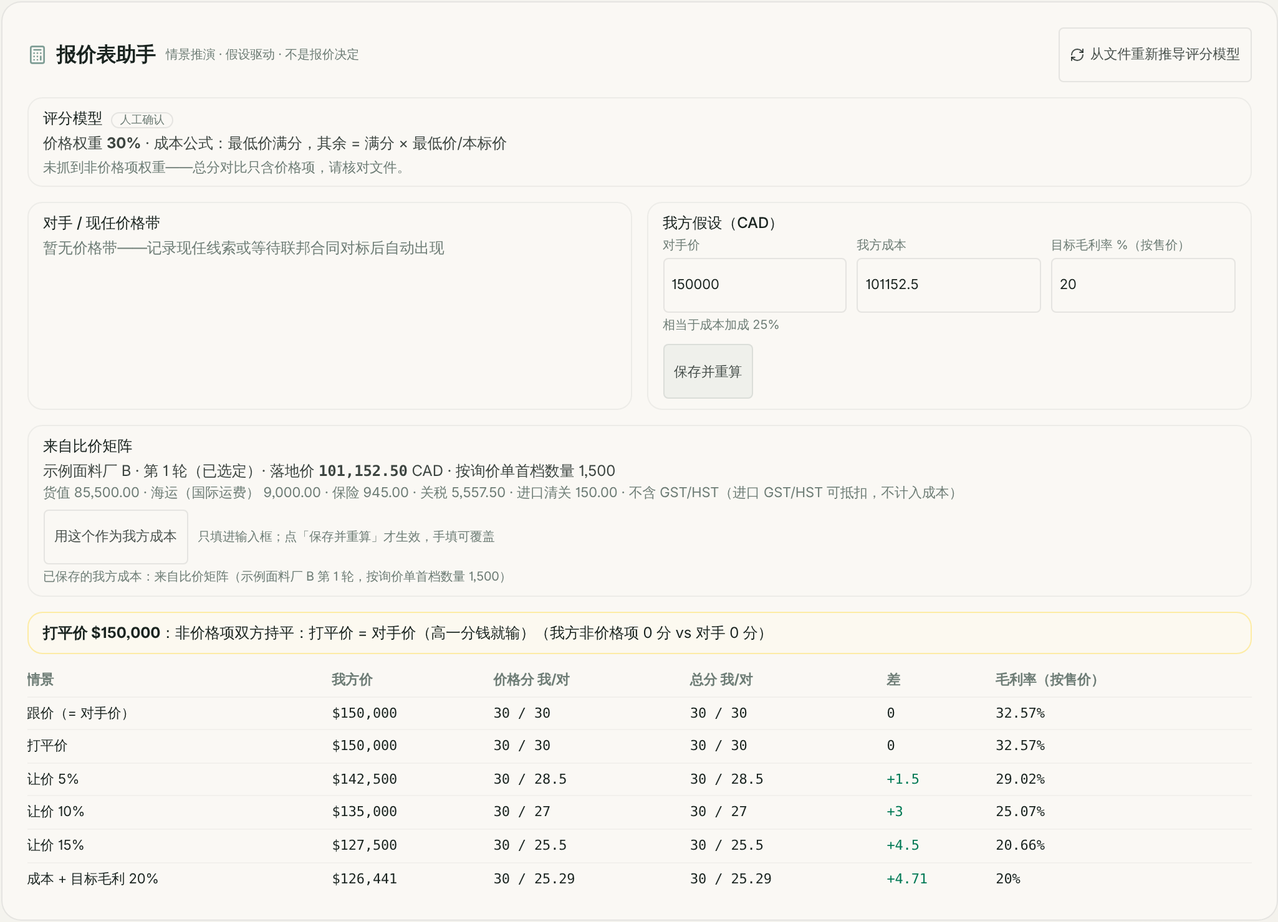
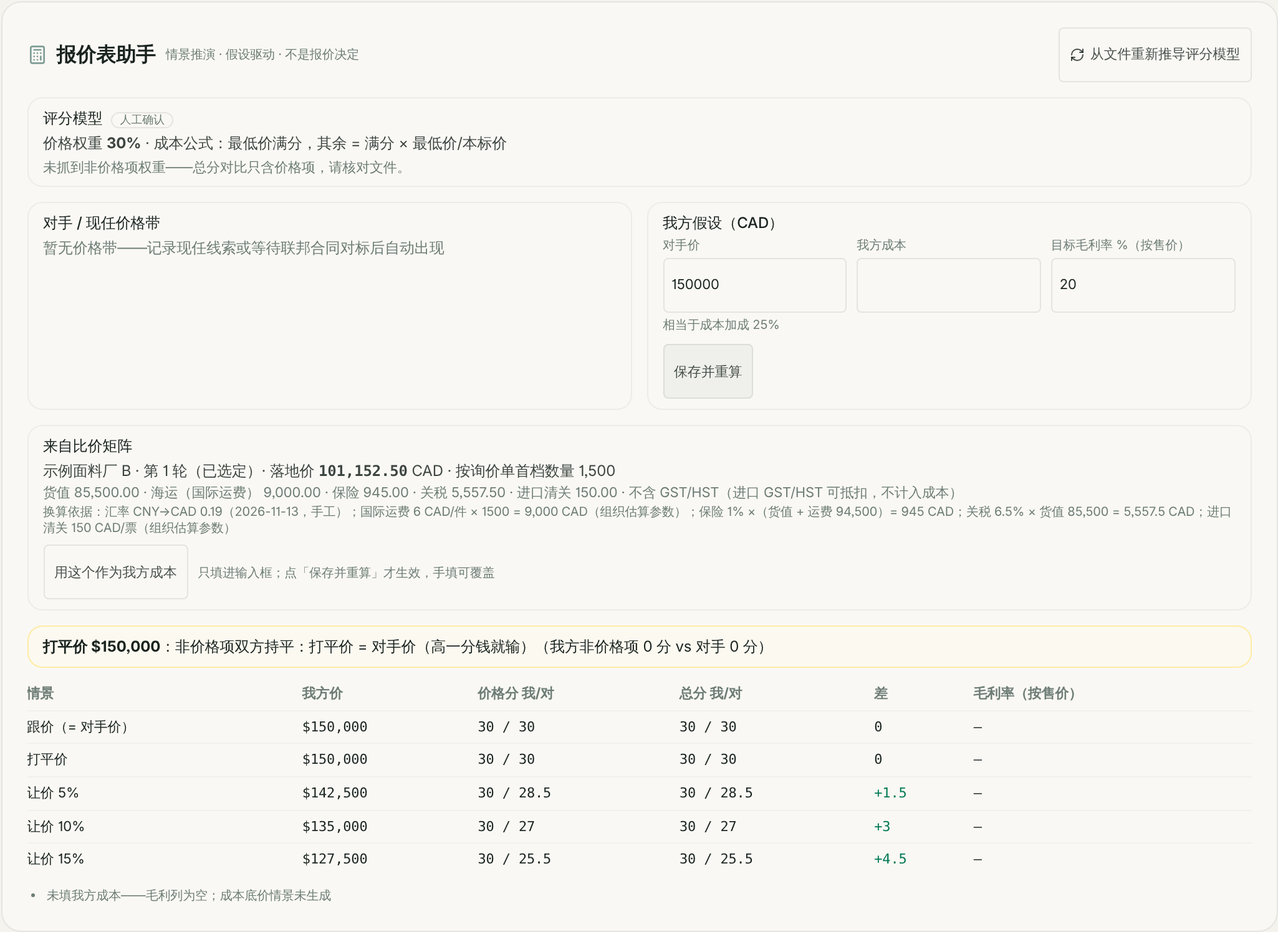
FLOW-H2: report, TASKFLOW row, final screenshots, specs/design after review
Claude-Session: https://claude.ai/code/session_01RmngaCcysDERn2akbh9ix2

diff --git a/docs/QINGYAN_FLOW-H2_REPORT.md b/docs/QINGYAN_FLOW-H2_REPORT.md
@@ -1,0 +1,123 @@
+# FLOW-H2 报告：比价矩阵里选定的供应商落地价，作为报价表助手的成本来源
+
+| 项 | 值 |
+|---|---|
+| change | `tender-pricing-compare-cost-source` |
+| TASKFLOW | FLOW-H2（实现 W-3「比价矩阵所选供应商落地价接进定价助手成本线」，决定 A 不变） |
+| 来源 | 交接文档 §0.5d 第 4 项。四件套先交审（#476 草稿），Lucas 2026-11-15「都按推荐，继续实施」——Q1–Q5 全部按推荐 |
+| 分支 | `claude/flow-h2-pricing-compare-source`（从 main 开） |
+| 性质 | 新功能 + 一处措辞更正。开关 `TENDER_PRICING_COMPARE_SOURCE_ENABLED`（可配组织名单 `TENDER_PRICING_COMPARE_SOURCE_ORG_ALLOWLIST`），**默认关**。零 schema、零模型调用、没有对外动作 |
+
+## 1. 问题
+
+报价表助手的「我方成本」只能手填。比价矩阵已经按贸易条款算出每家供应商到加拿大的落地价（CAD），但人只能自己抄过去，看不出抄的是哪一家、哪一轮、含不含运费关税。比价矩阵的结论还写着「到目的地含税」，实际含的是关税，不含 GST/HST。
+
+## 2. 做了什么
+
+**报价表助手卡片（开关开启时）**
+
+- 多一行「来自比价矩阵」：最近一轮有人工「选定」的询价里（已取消的轮次不算），选定的那一家的落地价——供应商、第几轮、数量口径、逐项（货值 / 内陆 / 海运 / 保险 / 关税 / 清关）、换算依据（汇率及其日期与来源、运费口径、关税率），并写明**不含 GST/HST（进口 GST/HST 可抵扣，不计入成本）**；DDP 报价写「是否已含 GST/HST 以供应商报价为准」。
+- 按钮「用这个作为我方成本」**只把数字填进输入框**，点「保存并重算」才生效；手填随时可以覆盖。读取永远不改已保存的成本。
+- 保存时，服务端按当前登录者有权访问的项目与组织重新取选定的那一条、重新换算；保存的成本与落地价**到分相同**才记「来自比价矩阵」（轮次、条目、当时的落地价、数量口径、时间），否则记手填；成本数字没变时保留原来的来源。请求里只认条目 id，不认金额、轮次、组织。来源存在既有的 `pricingInputs` JSON 里（零 schema）。
+- 已保存的成本来自比价矩阵、而矩阵现在换了一家或落地价变了：一句提示「比价矩阵现在是 B 第 N 轮 Y CAD；已保存的我方成本 X CAD 是按 A 第 M 轮的落地价记的，没有自动更新」。
+- 毛利列与目标毛利写作「毛利率（按售价）」，旁边显示等价的成本加成（m ÷ (1 − m)，只是换算显示，计算不变）。
+- 没有选定：说去询价区选定一家；换算不出（缺汇率、贸易条款、关税率）：写原因，不给数字、没有按钮；之后还有已发出、未选定的轮次：写出来；取数出错：只这一行说暂不可用，卡片其余照常。
+
+**比价矩阵与 Muse（不跟开关）**
+
+- 落地价换算多返回逐项金额；逐项各自到分，舍入差记到最大的一项费用上，之和正好等于落地总价。总价、排序、推荐、最低价不变。
+- 结论与 Muse 比价理由里「到目的地含税」改为「到目的地，含关税，不含 GST/HST；DDP 以供应商报价为准」（Q5）。Muse 的数字、字段、`price_scenario` 的取法都不变（决定 A）。
+
+## 3. 交付清单
+
+| 位置 | 改动 |
+|---|---|
+| `src/lib/tender-rfq/landed-cost.ts` | `normalizeQuote` 多返回 `breakdownCad` |
+| `src/lib/tender-rfq/compare.ts`、`src/lib/muse-bridge/router-pure.ts`、矩阵接口注释 | 「含税」措辞更正 |
+| `src/lib/tender-rfq/compare-service.ts` | 多返回 `firstTierQty`；可选参数 `includeNormalized`（传了才按条目返回换算结果；矩阵的行不加字段） |
+| `src/lib/tender-pricing/compare-cost-source.ts`（新） | 开关、规则、文字（纯函数） |
+| `src/lib/tender-pricing/compare-cost-source-load.ts`（新） | 取选定的那一条与落地价（只读）；出错时返回暂不可用 |
+| `src/app/api/projects/[id]/pricing-helper/route.ts` | GET 多返回 `compareCost`；POST 核对并记来源 |
+| `src/components/tender/pricing-compare-source.tsx`（新）、`pricing-helper-card.tsx` | 「来自比价矩阵」一行、填入按钮、成本加成换算 |
+| `src/lib/tender-pricing/__tests__/compare-cost-source.test.tsx`（新） | 83 项 |
+| `src/lib/tender-pricing/__tests__/compare-cost-source-db.isolated.test.ts`（新） | 40 项 |
+| `src/lib/tender-rfq/__tests__/landed-cost.test.ts` | +2 项（逐项） |
+| `scripts/test-all.sh`、`scripts/test-ci-unit.sh`、`.env.example` | 注册新测试；开关说明 |
+| `docs/acceptance/flow-h2/*.png` | 真实浏览器截图 5 张 |
+
+## 4. 证据
+
+**新测试**
+
+| 测试 | 项数 | 内容 |
+|---|---|---|
+| `compare-cost-source.test.tsx` | 83 | 逐项金额（EXW / FOB / CIF / DDP、缺关税率、随机 3000 例之和正好等于总价）；结论与 Muse 措辞；数量口径；来源核对（同一条 / 差 1 分 / 别的条目 / 没有建议 / 换算不出 / 暂不可用 / 请求多带的字段不读）；保存时的来源（各种组合、开关关闭）；过时提示；成本加成；开关；按钮只填输入框；卡片呈现（DDP、换算依据、暂不可用、只读的人、之后的轮次、来源与提示）；接线 |
+| `compare-cost-source-db.isolated.test.ts` | 40 | 真实路由 + 隔离库：没有选定；选定了更贵的那一家；逐项与换算依据；读取前后什么都没变；不带出备注原文、邮件正文、联系方式；别的组织 403；直接保存记来源；只改毛利来源保留；改过数字、伪造来源（没选定的、别的项目、别的组织、多带字段）；手填不被改；换选定只提示（两个金额都对）；更新的一轮未选定；已取消与草稿的轮次；供应商给总价；选定的不是已报价；换算不出；开关与名单；矩阵其它调用方的返回不变 |
+
+隔离库测试在 main 上：10 通过 / **24 失败**（通过的是 403、读取不改、不带出内容、开关关闭这些两边本来就该一样的）。纯逻辑测试在 main 上加载不了（新模块不存在）。
+
+**真实浏览器**（本机隔离库，`next dev`；演示数据）
+
+| 截图 | 看到的 |
+|---|---|
+| `suggestion.png` | 选定了 B 厂：落地价 101,152.50、首档数量 1,500、逐项、换算依据、不含 GST/HST、按钮；「目标毛利率 %（按售价）」与「相当于成本加成 25%」 |
+| `filled-not-saved.png` | 点按钮之后：输入框是 101152.5，情景表仍是没填成本时的样子（没保存） |
+| `saved.png` | 保存之后：「已保存的我方成本：来自比价矩阵（B 厂第 1 轮，按询价单首档数量 1,500）」，情景表有了成本底线 |
+| `stale.png` | 改选 A 厂之后：提示现在是 A 厂 95,025.00、已保存的是 B 厂 101,152.50，没有自动更新 |
+| `flag-off.png` | 开关关闭：同一个项目，没有这一行，标签是原来的「目标毛利 %」「毛利」（脚本核对数量为 0） |
+
+**既有测试**（不变地通过）：`landed-cost` 72、`compare` 47、`interpretation-guard` 29、`pricing-helper` 13、`muse-bridge advisory` 70、`muse-bridge-pure` 75、`inquiry-pure` 27。
+
+**门禁**
+
+| 门禁 | 结果 |
+|---|---|
+| `npm run test:ci` | `CI unit subset PASS`（本机，CI 的环境变量；审查修复前后各跑一次） |
+| `npm run typecheck` | 通过 |
+| `npm run lint:baseline` | PASS（无新增 error fingerprint） |
+| `bash scripts/check-test-registry.sh` | OK |
+| `bash scripts/test-runtime-architecture.sh` | PASS |
+| `npx tsx scripts/check-swc-nullish-logical.test.ts` | PASS |
+| `openspec validate tender-pricing-compare-cost-source --strict` | valid（各条要求正文都在 500 字以内） |
+
+## 5. 独立审查
+
+开 PR 前请了一个不带结论的独立审查（只给分支与四件套，它在自己的工作区里跑测试与 42 处变异）。没有高等级问题。处理：
+
+| 编号 | 发现 | 处理 |
+|---|---|---|
+| M1 | DDP 报价也写「不含 GST/HST」——DDP 由供应商负责进口税费，报价可能已含 GST | 修。DDP 写「是否已含 GST/HST 以供应商报价为准；如含，可抵扣的部分不计入成本」；结论与 Muse 加「DDP 以供应商报价为准」 |
+| M2 | 报价表助手保存时整体覆盖 `pricingInputs`，抹掉报价引擎镜像的 `ourPriceCad` 等（main 上本来就这样） | 不在本次范围。已另开任务（合并而不是覆盖，带隔离库测试）；写进 design Risks |
+| L1 | 逐项各自舍入，之和常与总价差一分；spec 写「等于」 | 修。舍入差记到最大一项费用上，之和正好等于总价；随机 3000 例测试 |
+| L2 | 已取消的轮次里的选定仍算；已取消、草稿的轮次算「之后还有」 | 修。两处都排除；隔离库测试 |
+| L3 | 取数出错时整个接口 500，卡片整张消失；保存带声明也 500 | 修。读取：只这一行暂不可用；保存：按没有建议处理 |
+| L4 | 供应商给总价时，按件估算的运费仍按首档数量，标签没说 | 修。写「货值按供应商报价总价；按件估算的费用按询价单首档数量 Q」；隔离库测试 |
+| L5 | 开关开过又关，成本没变时之前的来源留着；开关关闭时的卡片只有源码断言 | 前者写进 Risks（页面看不到）；后者把成本加成抽成可呈现的小组件，测试开关关闭时什么都不显示 |
+| L6 | 卡片不显示换算依据（汇率是哪天的） | 修。逐项下面一行「换算依据」 |
+| 变异 | 审查存活 9 处（M01 / M10 / M20 / M24 / M26 / M28 / M36 / M37 / M40） | M01（恰好差 0.005）浮点上没法稳定构造，不补；其余 8 处补了测试，复跑全部被发现 |
+
+## 6. 变异核对
+
+- 自己的第一轮 25 处：23 处被发现；M4（成本没变、声明核对不过时保留原来的来源）存活——想过之后改为这就是规则（数字仍是原来那个来源的数，过时提示也照样出现），之后等价；M17（过时提示里的已保存成本）补了金额断言后被发现。
+- 审查修复之后 13 处（审查存活的 8 处 + 新规则 5 处）：**全部被发现**。
+
+脚本：`/tmp/claude-0/-home-user--/a7528e60-5f86-55e5-b1cc-747fa9fb90f5/scratchpad/h2/mut.py`（会话临时目录，不入库）。
+
+## 7. 已知限制
+
+- **首档数量 ≠ 招标总量**：建议的落地总价按询价单首档数量（或供应商总价），不换算到招标总量（Q4），口径写在卡片上。
+- **组织设置缺参数时没有数字**：汇率、运费估算、关税率没填的组织，开了开关多半先看到「换算不出」。
+- **备忘录、标书草稿不知道来源**：它们照旧只读成本数字。
+- **「到分」核对**：人点按钮和点保存之间矩阵参数被改，会记成手填（成本数字没变时保留原来的来源）。
+- **报价表助手读取多一串查询**（开关开着时）：选定条目一次 + 比价矩阵取数。
+- **既有缺陷未修**：保存时覆盖 `pricingInputs`（见第 5 节 M2）。
+
+## 8. 没做的
+
+- 成本加成作为另一种计算口径；投标工作区成本核算表（TI-2）与询价报价逐行对接。
+- 用推荐或最低价代替选定；自动覆盖已保存的成本；把来源写进备忘录或标书草稿。
+- 改谁能看到成本与毛利（现在项目读者都能看到，Q3 另定）。
+
+## 9. 上线
+
+合并后照常 `vercel --prod`。零 schema，无回填；开关默认关，线上只有比价矩阵结论与 Muse 比价理由里那一句措辞变了。要启用：设 `TENDER_PRICING_COMPARE_SOURCE_ENABLED=1`（可先用组织名单限定）——等 Owner 定。回滚 = 关开关；措辞回滚代码。

diff --git a/docs/QINGYAN_MUSE_BRIDGE_TASKFLOW.md b/docs/QINGYAN_MUSE_BRIDGE_TASKFLOW.md
@@ -81,7 +81,7 @@
 |---|---|---|---|---|
 | W-1 | 项目页「问供应商要价」：入口前置判断（七种不可发原因 + 出路）→ 抽屉选供应商 / 条款 → 与 Muse 同一 `prepareRfqRound`（`source=web`）建 `tender.send_rfq` → 原地批准 / 驳回（审批中心既有接口）→ 轮次状态行与「从发起到发出」耗时；待批轮次禁止手工标记发送；旧单封直发 `email/send`、`email/generate` 下线（410） | P1-1..P1-8 | OpenSpec change `rfq-web-entry`；`web-entry-pure` 81 项测试注册；报告 `docs/QINGYAN_W-1_REPORT.md`；staging GATE-W 见任务书 §6 | [x]（#389；archive `2026-11-07-rfq-web-entry`） |
 | W-2 | RFQ 设置页：fromName / fromEmail / mailboxEmail / 回复提前量 / 轮次锁 / 催单天数 / 落地成本 FX（现只有 `PUT /api/organizations/[orgId]/tender-rfq-settings`） | W-1 | 页面保存 = 现有 PUT 的效果；非 org_admin 不可见 | [ ] |
-| W-3 | 比价矩阵所选供应商落地价接进定价助手成本线（Web 化 `projectScenariosForMuse`，决定 A 不变） | W-1 | 定价助手出现「来自比价矩阵」成本来源；手填可覆盖 | [ ] |
+| W-3 | 比价矩阵所选供应商落地价接进定价助手成本线（Web 化 `projectScenariosForMuse`，决定 A 不变） | W-1 | 定价助手出现「来自比价矩阵」成本来源；手填可覆盖 | [G]（由 FLOW-H2 实现） |
 
 ---
 
@@ -249,6 +249,7 @@
 | RFQ-AUTO-3 | 自动起草的轮次也能带跟进授权：加一个个人开关（按用户、按组织，默认关），只能本人在网页上开启，开启处展示授权范围与三段模板；状态是本人最近一条开关记录（不放进组织设置），开启时绑定模板指纹，随时能关；开启后，他触发的自动起草的卡带上与网页勾选时相同的授权，卡仍只能在网页批、批准后才生效；关闭只影响之后起草的轮次。没有新的功能开关（RFQ-AUTO-1 与 RFQ-AUTO-2 两个都开时才可见）；不改覆盖判定、执行、停止与硬纪律文字 | RFQ-AUTO-1、RFQ-AUTO-2 | OpenSpec change `rfq-auto-draft-followup-optin`；新增测试 19 项已注册，隔离库端到端 38 → 68 项（含批准后自动催单）；开 PR 前经独立审查并修复 6 处（其中一处补上 RFQ-AUTO-1 留下的缺口：带授权的待批卡在功能关闭时也显示授权）；截图 4 张 `docs/acceptance/rfq-auto-3/`；报告 `docs/QINGYAN_RFQ-AUTO-3_REPORT.md` | [x]（#427，2026-11-11 合并；archive `2026-11-11-rfq-auto-draft-followup-optin`） |
 | RFQ-AUTO-3a | 修 RFQ-AUTO-3 的一个缺口：个人开关的状态取「最近一条记录」，而记录时间来自各台服务器自己的时钟，时钟不一致或被回拨时后点的「关闭」可能不生效。设置改为一个短事务——取本人的锁、读最近一条、需要才写，并明确给记录时间（至少比上一条晚 1 毫秒）。读取、接口、界面不变；零 schema，没有新的开关 | RFQ-AUTO-3 | OpenSpec change `rfq-followup-optin-ordering`；隔离库 68 → 75（先在修复前的代码上确认新用例会失败），`auto-followup-optin` 19 → 21；报告 `docs/QINGYAN_RFQ-AUTO-3a_REPORT.md` | [x]（#433，2026-11-11 合并；archive `2026-11-11-rfq-followup-optin-ordering`） |
 | FLOW-H3 | 询价发出之后招标分析更新过，在那一轮上标出来（方案 H3 按只读调查改写：生产上没有增量分析、询价轮次不记所用要求，原写法的前提不成立）：询价引擎发出的每一轮，询价单取要求用的那一份分析（最新创建的可用分析）在这一轮的发送卡创建（正文定下）之后才完成或才批准时，询价区在那一轮的状态行下显示一句提示——起草日期、分析更新日期、引用的要求可能已经变了、请核对、需要时另发一轮；更新之后已经又起草过一轮的不再提示。只按时间判断，不说具体哪条变了，不做任何对外动作。开关 `TENDER_RFQ_ANALYSIS_UPDATE_NOTE_ENABLED`（可配组织名单），默认关。零 schema、零模型调用 | FLOW-H1c | OpenSpec change `tender-rfq-round-analysis-update-note`；新增测试两个已注册（纯逻辑、接线与状态行呈现 21 项，隔离库 15 项，后者在 main 上失败）；开 PR 前经独立审查并修复其发现；审查后 12 处变异全部被测试发现；真实浏览器截图 `docs/acceptance/flow-h3/`；报告 `docs/QINGYAN_FLOW-H3_REPORT.md` | [x]（#464，2026-11-15 合并；archive `2026-11-15-tender-rfq-round-analysis-update-note`；开关默认关，生产未启用） |
+| FLOW-H2 | 比价矩阵里人工选定的那一家的落地价，作为报价表助手的成本来源（W-3；四件套先经 Lucas 审，Q1–Q5 都按推荐）：卡片多一行「来自比价矩阵」——最近一轮有选定的询价里那一家的落地价（CAD），供应商、轮次、数量口径、逐项（货值 / 内陆 / 海运 / 保险 / 关税 / 清关）、换算依据，写明不含 GST/HST（DDP 以供应商报价为准）；按钮只把数字填进「我方成本」，人保存才生效，手填可覆盖；保存时服务端按鉴权的项目与组织重新换算核对，到分相同才记来源，否则记手填；矩阵变了只提示；「毛利率（按售价）」旁显示等价的成本加成。比价矩阵结论与 Muse 比价理由里「含税」更正为「含关税，不含 GST/HST；DDP 以供应商报价为准」。开关 `TENDER_PRICING_COMPARE_SOURCE_ENABLED`（可配组织名单），默认关。零 schema、零模型调用 | W-1 | OpenSpec change `tender-pricing-compare-cost-source`；新增测试两个已注册（纯逻辑、接线与呈现 83 项，隔离库 40 项，后者在 main 上失败）；开 PR 前经独立审查并修复其发现；变异核对（审查 42 处 + 自己 38 处）真实存活的都已补测试；真实浏览器截图 `docs/acceptance/flow-h2/`；报告 `docs/QINGYAN_FLOW-H2_REPORT.md` | [G] |
 | RFQ-AUTO-4 | 招标要求审核的批量确认：要求列表上每条待确认的要求一个勾选框，「全选待确认的」「确认选中的 N 条」（默认不选；没有一键全部确认，没有批量驳回）；用既有接口，超过 200 条前端分批；列表上方计数；「批准分析」旁在还有待确认的要求时提示后果；批量确认留审计；分析已不是等待审核时面板的批量确认被接口拒绝（可选参数，条件写在同一条更新语句里）。不加功能开关 | RFQ-AUTO-2 | OpenSpec change `requirement-review-batch-confirm`；新增测试 54 项 + 隔离库经真实路由 17 项已注册；开 PR 前经独立审查并修复 6 处；截图 3 张 `docs/acceptance/rfq-auto-4/`；报告 `docs/QINGYAN_RFQ-AUTO-4_REPORT.md` | [x]（#429，2026-11-11 合并；archive `2026-11-11-requirement-review-batch-confirm`） |
 | RFQ-AUTO-5 | 供应商分组：每人自己的几组供应商（名字 / 1–8 家 / 关键词，最多 10 组），按项目名称做确定性的文字比对选组，恰好一组对上才用，对不上不猜；询价抽屉按分组预选并可管理分组（存为新分组 / 用当前勾选覆盖 / 改名与关键词 / 删除）；自动起草有分组时只认分组，对不上不起草、不退回常用供应商，摘要 / 结果 / 审计写明分组与关键词；分组存成本人的只追加记录（不进组织设置），保存带版本、不互相覆盖；分组信息不出站。开关 `TENDER_RFQ_SUPPLIER_GROUPS_ENABLED` 默认关；关闭或没有分组时行为不变。零 schema、零模型调用；不改 Muse、审批、发送、催单 | RFQ-AUTO-2 | OpenSpec change `rfq-supplier-groups`；新增测试两个已注册（纯逻辑与接线 103 项、隔离库 52 项），`auto-draft-pure` 47 → 63；开 PR 前经独立审查并修复其发现（保存的先后不依赖时钟、无效字符在入口拒绝、读不出来的记录不当成没有分组等）；截图 4 张 `docs/acceptance/rfq-auto-5/`；报告 `docs/QINGYAN_RFQ-AUTO-5_REPORT.md` | [x]（#431，2026-11-11 合并；archive `2026-11-11-rfq-supplier-groups`） |
 | FLOW-H4c | 提交记录接进可投标判定：投标工作区的可投标判定从来没拿到过提交记录，截标一过就报「已过截标」、判为不可投标——交完标、记了回执的项目也一样。现在带上与项目当前提交时间对得上的那条记录（FLOW-H4a 写下的）：有回执编号的判定为「**已交标（仅供复盘）**」（新增的第三种判定，面板上中性色，不再可能出现绿色的「可提交 Owner 决定」）；有提交时间、没有回执编号的仍报「已过截标」（只有带回执的才算已提交，TI-1 不变），提交记录开着时写明去「提交记录」里补，没开时只说缺回执编号。给判定的取数在只读文件 `tender-submission/read.ts`；截标之前不查。不新增开关（只在投标工作区里可见，沿用 `TENDER_BID_WORKSPACE_ENABLED`，默认关）。零 schema、零模型调用 | FLOW-H4a | OpenSpec change `tender-readiness-submission-record`（含 `tender/bid-readiness` 的 MODIFIED）；新增隔离库测试一个已注册（24 项，在 main 上失败 10 项），readiness 补到 31 项、submission-record 补到 81 项；开 PR 前经独立审查并修复其发现；审查后 20 处变异 3 处等价、其余全部被测试发现；报告 `docs/QINGYAN_FLOW-H4c_REPORT.md` | [x]（#459，2026-11-15 合并；archive `2026-11-15-tender-readiness-submission-record`；没有新开关，随投标工作区的开关，生产未启用） |

diff --git a/openspec/changes/tender-pricing-compare-cost-source/specs/tender/pricing-compare-cost-source/spec.md b/openspec/changes/tender-pricing-compare-cost-source/specs/tender/pricing-compare-cost-source/spec.md
@@ -4,7 +4,7 @@
 ## ADDED Requirements
 
 ### Requirement: 来自比价矩阵的成本建议
-开关对项目的组织开启时，报价表助手的读取接口 SHALL 返回一项成本建议：项目里最近一轮有人工选定（`isSelected`）且已报价的询价，用比价矩阵同一套换算算出那一家的落地价（CAD），带供应商名、轮次、数量口径、逐项金额与换算假设。没有选定时 SHALL 返回「还没有选定」的说明；换算不出落地价时 SHALL 返回原因，SHALL NOT 给出数字。SHALL NOT 用推荐或最低价代替选定。
+开关对项目的组织开启时，报价表助手的读取接口 SHALL 返回一项成本建议：项目里最近一轮有人工选定（`isSelected`）且已报价、未取消的询价，用比价矩阵同一套换算算出那一家的落地价（CAD），带供应商名、轮次、数量口径、逐项金额与换算假设；之后已取消或草稿的轮次 SHALL NOT 算作「之后还有」。取数出错时 SHALL 只这一项显示暂不可用，SHALL NOT 让整个接口失败。没有选定时 SHALL 返回「还没有选定」的说明；换算不出落地价时 SHALL 返回原因，SHALL NOT 给出数字。SHALL NOT 用推荐或最低价代替选定。
 
 #### Scenario: 最近一轮有选定
 - **WHEN** 第 2 轮选定了一家 FOB 报价，汇率、海运、关税率、清关参数齐全
@@ -13,6 +13,14 @@
 #### Scenario: 最近一轮没有选定、更早一轮有
 - **WHEN** 第 3 轮还没有选定，第 2 轮有
 - **THEN** 建议来自第 2 轮，并写明之后还有第 3 轮尚未选定（`compare-cost-source-db.isolated.test.ts`）
+
+#### Scenario: 已取消、草稿的轮次
+- **WHEN** 第 3 轮有选定但已取消，第 4 轮还是草稿
+- **THEN** 建议仍来自之前的选定，不说「之后还有」（`compare-cost-source-db.isolated.test.ts`）
+
+#### Scenario: 供应商给了总价
+- **WHEN** 选定的那一家报的是总价
+- **THEN** 货值按总价，数量口径写明按件估算的费用按询价单首档数量（`compare-cost-source-db.isolated.test.ts`）
 
 #### Scenario: 没有选定
 - **WHEN** 项目有报价但没有任何一轮选定
@@ -27,11 +35,15 @@
 - **THEN** 接口不返回这一项，卡片与现在相同（`compare-cost-source-db.isolated.test.ts`；`compare-cost-source.test.tsx`）
 
 ### Requirement: 只建议，人保存才生效
-卡片 SHALL 把建议显示为「来自比价矩阵」一行，并写明落地价不含 GST/HST。按钮 SHALL 只把数字填进「我方成本」输入框，SHALL NOT 自己保存。读取接口 SHALL NOT 改写已保存的成本；已保存的成本与建议不同时 SHALL 照旧按已保存的计算。人手填的数字 SHALL 始终可以保存并覆盖建议。
+卡片 SHALL 把建议显示为「来自比价矩阵」一行，写明换算依据与落地价不含 GST/HST（DDP 写以供应商报价为准）。按钮 SHALL 只把数字填进「我方成本」输入框，SHALL NOT 自己保存。读取接口 SHALL NOT 改写已保存的成本；已保存的成本与建议不同时 SHALL 照旧按已保存的计算。人手填的数字 SHALL 始终可以保存并覆盖建议。
 
 #### Scenario: 点按钮之后没有保存
 - **WHEN** 人点了「用这个作为我方成本」，没有点保存
 - **THEN** 输入框里是建议的数字，已保存的成本与情景表不变（`compare-cost-source.test.tsx`；`compare-cost-source-db.isolated.test.ts`）
+
+#### Scenario: DDP 与换算依据
+- **WHEN** 建议是一家 DDP 报价；或建议带汇率、关税的换算依据
+- **THEN** DDP 不写「不含 GST/HST」，写以供应商报价为准；换算依据显示在逐项下面（`compare-cost-source.test.tsx`）
 
 #### Scenario: 已有手填的成本
 - **WHEN** 已保存的成本是手填的 90,000，建议是 84,500

diff --git a/openspec/changes/tender-pricing-compare-cost-source/specs/tender/rfq-compare/spec.md b/openspec/changes/tender-pricing-compare-cost-source/specs/tender/rfq-compare/spec.md
@@ -1,11 +1,11 @@
 ## ADDED Requirements
 
 ### Requirement: 落地价写明含什么、不含什么
-落地价换算 SHALL 在返回里带逐项金额（货值、内陆、海运、保险、关税、清关；按贸易条款不加的项为空；DDP 写明已含在报价里）。比价矩阵结论 SHALL 写「到目的地，含关税，不含 GST/HST」，SHALL NOT 写「含税」。落地价 SHALL NOT 计入 GST/HST。落地总价、排序、推荐与最低价 SHALL 与改动前相同。
+落地价换算 SHALL 在返回里带逐项金额（货值、内陆、海运、保险、关税、清关；按贸易条款不加的项为空；DDP 写明已含在报价里），逐项各自到分、之和 SHALL 正好等于落地总价。比价矩阵结论与 Muse 比价理由 SHALL 写「到目的地，含关税，不含 GST/HST；DDP 以供应商报价为准」，SHALL NOT 写「含税」。落地价 SHALL NOT 计入 GST/HST。落地总价、排序、推荐与最低价 SHALL 与改动前相同。
 
 #### Scenario: FOB 报价
 - **WHEN** 一家 FOB 报价，海运、保险、关税、清关参数齐全
-- **THEN** 逐项金额（各自舍入到分）加起来等于落地总价；总价与改动前相同（`npx tsx src/lib/tender-pricing/__tests__/compare-cost-source.test.tsx`；`npx tsx src/lib/tender-rfq/__tests__/landed-cost.test.ts`）
+- **THEN** 逐项金额（各自到分）加起来正好等于落地总价（随机 3000 例也是）；总价与改动前相同（`npx tsx src/lib/tender-pricing/__tests__/compare-cost-source.test.tsx`；`npx tsx src/lib/tender-rfq/__tests__/landed-cost.test.ts`）
 
 #### Scenario: 结论措辞
 - **WHEN** 生成比价矩阵结论

diff --git a/openspec/changes/tender-pricing-compare-cost-source/design.md b/openspec/changes/tender-pricing-compare-cost-source/design.md
@@ -117,6 +117,10 @@
 
 ## Risks / Trade-offs
 
+- **独立审查后改的（详见报告）**：DDP 的税务说明（供应商负责进口税费，不能断言不含 GST/HST）；逐项舍入差记到最大一项费用上，之和正好等于总价；已取消的轮次里的选定不算、已取消与草稿的轮次不算「之后还有」；取数出错时只这一行暂不可用；供应商给总价时写明按件估算的费用按首档数量；卡片显示换算依据。
+- **既有缺陷（不在本次范围，另开任务）**：报价表助手保存时整体覆盖 `pricingInputs`，会抹掉报价引擎镜像进去的 `ourPriceCad / ourPriceSource / ourPriceStatus`（标书草稿读 `ourPriceCad`）。main 上本来就这样，本次只是在同一行多写了来源。
+- **开关开过又关**：关闭后保存、成本没变时，之前记下的来源留在 JSON 里（成本变了会去掉）。只影响开过又关的组织；页面上看不到。
+
 - **首档数量 ≠ 招标总量**：建议的落地总价可能和项目实际要报的量对不上。只写明口径，不换算（D8、Q4）。
 - **报价表助手读取多一串查询**（开关开着时）：找选定条目一次，加上比价矩阵取数（项目、轮次、条目、组织设置、发送卡）。只在卡片打开时。
 - **组织设置缺参数**（汇率、海运估算、关税率）时没有数字，只有原因。现在很多组织可能还没填，开了开关多半先看到「换算不出」。

diff --git a/openspec/changes/tender-pricing-compare-cost-source/tasks.md b/openspec/changes/tender-pricing-compare-cost-source/tasks.md
@@ -18,5 +18,5 @@
 ## 4. 测试注册与验收
 
 - [x] 4.1 新测试注册进 `scripts/test-all.sh` 与 `scripts/test-ci-unit.sh`；`.env.example` 写开关；verify：`bash scripts/check-test-registry.sh` 输出 OK
-- [ ] 4.2 变异核对；独立审查并处理其发现；全部门禁；verify：报告里逐条写明；`npm run test:ci` 输出 `CI unit subset PASS`、`npm run typecheck` 退出码 0、`npm run lint:baseline` PASS、`bash scripts/test-runtime-architecture.sh` PASS、`openspec validate tender-pricing-compare-cost-source --strict` valid
-- [ ] 4.3 写 `docs/QINGYAN_FLOW-H2_REPORT.md` + 更新 TASKFLOW 状态列；verify：TASKFLOW 里有 FLOW-H2 一行，状态 `[G]`
+- [x] 4.2 变异核对；独立审查并处理其发现；全部门禁；verify：报告里逐条写明；`npm run test:ci` 输出 `CI unit subset PASS`、`npm run typecheck` 退出码 0、`npm run lint:baseline` PASS、`bash scripts/test-runtime-architecture.sh` PASS、`openspec validate tender-pricing-compare-cost-source --strict` valid
+- [x] 4.3 写 `docs/QINGYAN_FLOW-H2_REPORT.md` + 更新 TASKFLOW 状态列；verify：TASKFLOW 里有 FLOW-H2 一行，状态 `[G]`
